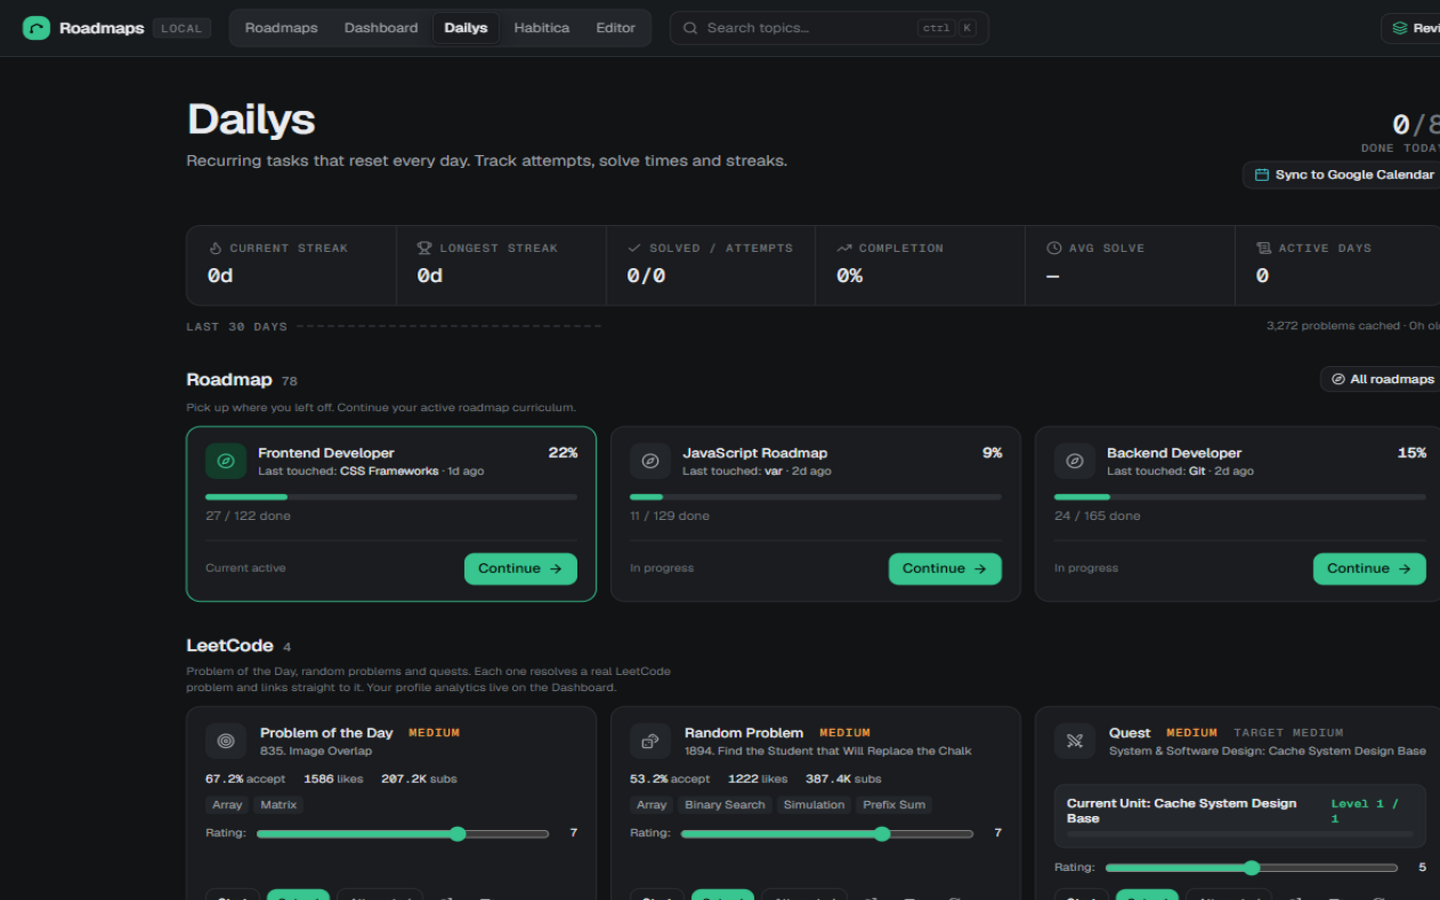
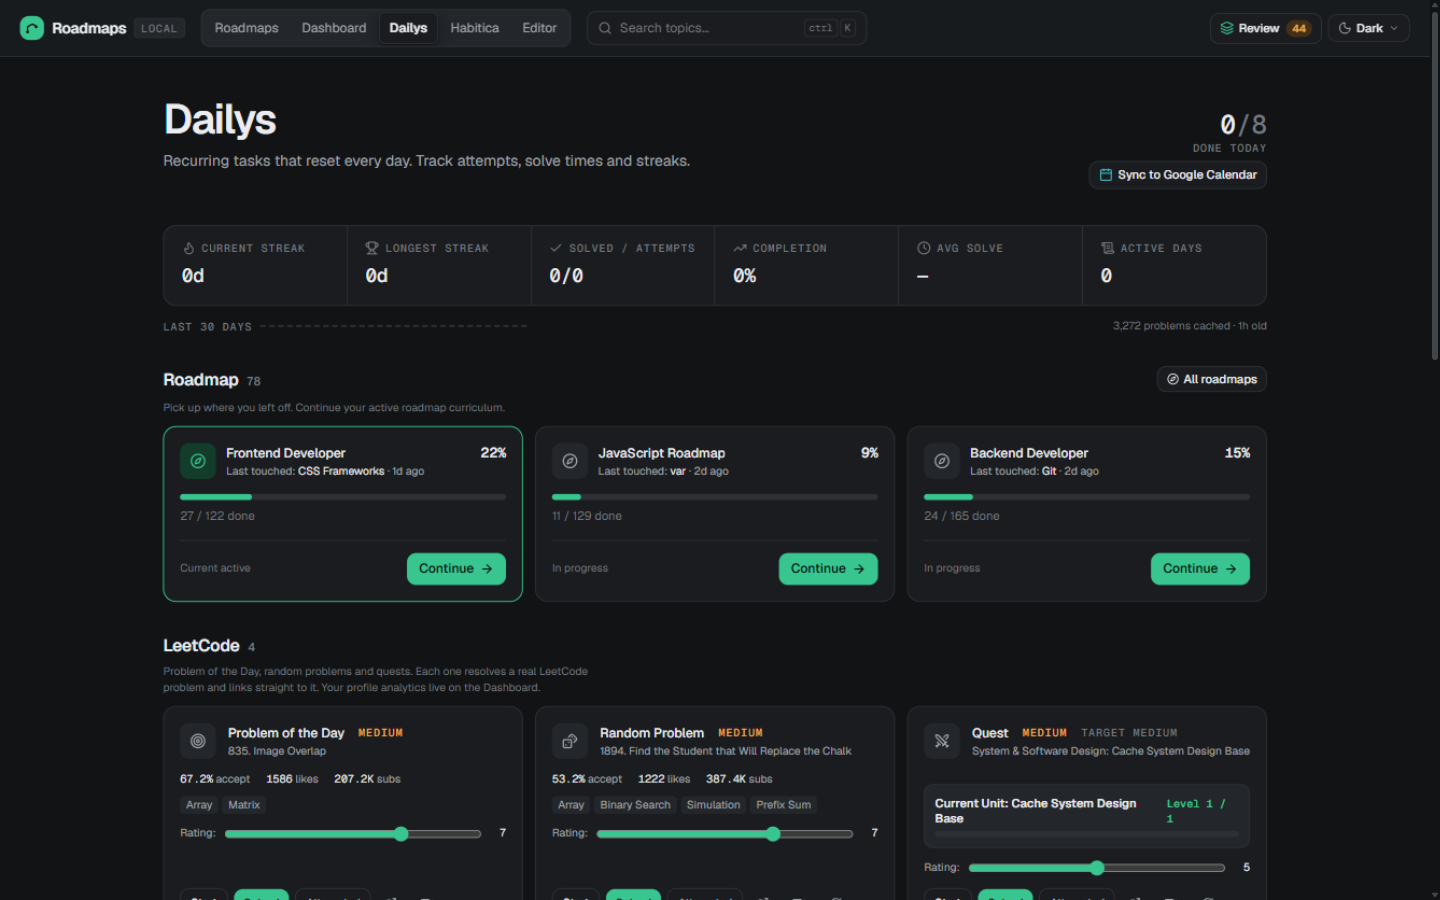
docs: expand README gallery with feature screenshots
Adds: notes + Pomodoro/focus-sound timer, career role gap analysis,
in-browser code sandbox, flashcards, GitHub badge & Anki export, and
an updated dailys board shot. Feature list now documents the study
timer, ambient focus sounds, notes, sandbox and per-problem video
explanation links.

diff --git a/README.md b/README.md
@@ -61,13 +61,21 @@ it needs an internet connection, and it forgets when you clear cookies.
 |---|---|
 | ![Home](docs/screenshots/home.png) | ![Topic popup](docs/screenshots/topic-popup.png) |
 
-| Active-recall flashcards | Analytics dashboard |
+| Spaced-repetition flashcards | Study notes + Pomodoro timer |
 |---|---|
-| ![Review](docs/screenshots/review-queue.png) | ![Dashboard](docs/screenshots/dashboard.png) |
+| ![Review](docs/screenshots/review-queue.png) | ![Notes and timer](docs/screenshots/notes-timer.png) |
 
-| Full-text search (Ctrl+K) | Daily challenge board |
+| Career role gap analysis | Analytics dashboard |
 |---|---|
-| ![Search](docs/screenshots/search.png) | ![Dailys](docs/screenshots/dailys.png) |
+| ![Career gap](docs/screenshots/career-gap.png) | ![Dashboard](docs/screenshots/dashboard.png) |
+
+| Daily challenge board | In-browser code sandbox |
+|---|---|
+| ![Dailys](docs/screenshots/dailys.png) | ![Code sandbox](docs/screenshots/code-sandbox.png) |
+
+| Full-text search (Ctrl+K) | GitHub badge & Anki export |
+|---|---|
+| ![Search](docs/screenshots/search.png) | ![Badge & Anki](docs/screenshots/badge-anki.png) |
 
 Also ships with **light, paper, dark and midnight themes** (see `docs/screenshots/home-light.png`).
 
@@ -77,7 +85,8 @@ Also ships with **light, paper, dark and midnight themes** (see `docs/screenshot
 - **All 97 official roadmaps** — Frontend, Backend, AI Engineer, DevOps, Rust, System Design, …
 - **Official renderer fidelity** — the same hand-drawn Balsamiq canvas, byte-exact
   node and edge geometry, guarded in CI by `scripts/verify_edges.py`.
-- **Topic content & resources** — official markdown guides and curated links per topic, read offline.
+- **Topic content & resources** — official markdown guides, curated links and video
+  explanations per topic, read offline.
 
 ### Consistency engine
 - **Progress tracking** — mark any topic *Learning / Done / Skip*; per-roadmap and
@@ -85,14 +94,23 @@ Also ships with **light, paper, dark and midnight themes** (see `docs/screenshot
 - **Spaced repetition** — marking a topic done schedules it onto a Leitner-style
   1/3/7/14/30/90-day review ladder. Active-recall flashcards grade themselves
   into long-term memory; a retention ring shows what's actually sticking.
+- **Study timer & focus** — per-topic stopwatch or Pomodoro timer with ambient
+  focus sounds (rain, waves, alpha) generated in-browser.
+- **Notes** — markdown notes per topic (checklists, math, code blocks) with
+  live preview, stored in `state.json`.
 - **Streaks & heatmap** — daily goal, current/longest streak, milestones.
-- **Dailys board** — a habit board that can pull LeetCode's Problem of the Day,
-  quests, Project Euler and study plans, or your own custom dailies.
+- **Dailys board** — a habit board that can pull LeetCode's Problem of the Day
+  (with a video-explanation link per problem), quests, Project Euler and study
+  plans, or your own custom dailies.
 
 ### Career analytics
 - **Dashboard** — study velocity, completion forecasting, what's due for review today.
-- **Role gap analysis** — pick a target role, see exactly which topics you're missing.
-- **Time tracking** — optional per-topic time logs.
+- **Role gap analysis** — pick a target role (Senior Frontend, Backend Architect,
+  DevOps, Fullstack, AI Engineer…) and see exactly which competencies you're
+  missing, each linked to the roadmap that teaches it.
+- **Time tracking** — per-topic time logs feeding the velocity forecast.
+- **In-browser sandbox** — practice snippets in an isolated Web Worker while
+  you study (Ctrl+Enter to run).
 
 ### Your data, your machine
 - **One-file state** — everything personal lives in `data/state.json`; updates never touch it.
